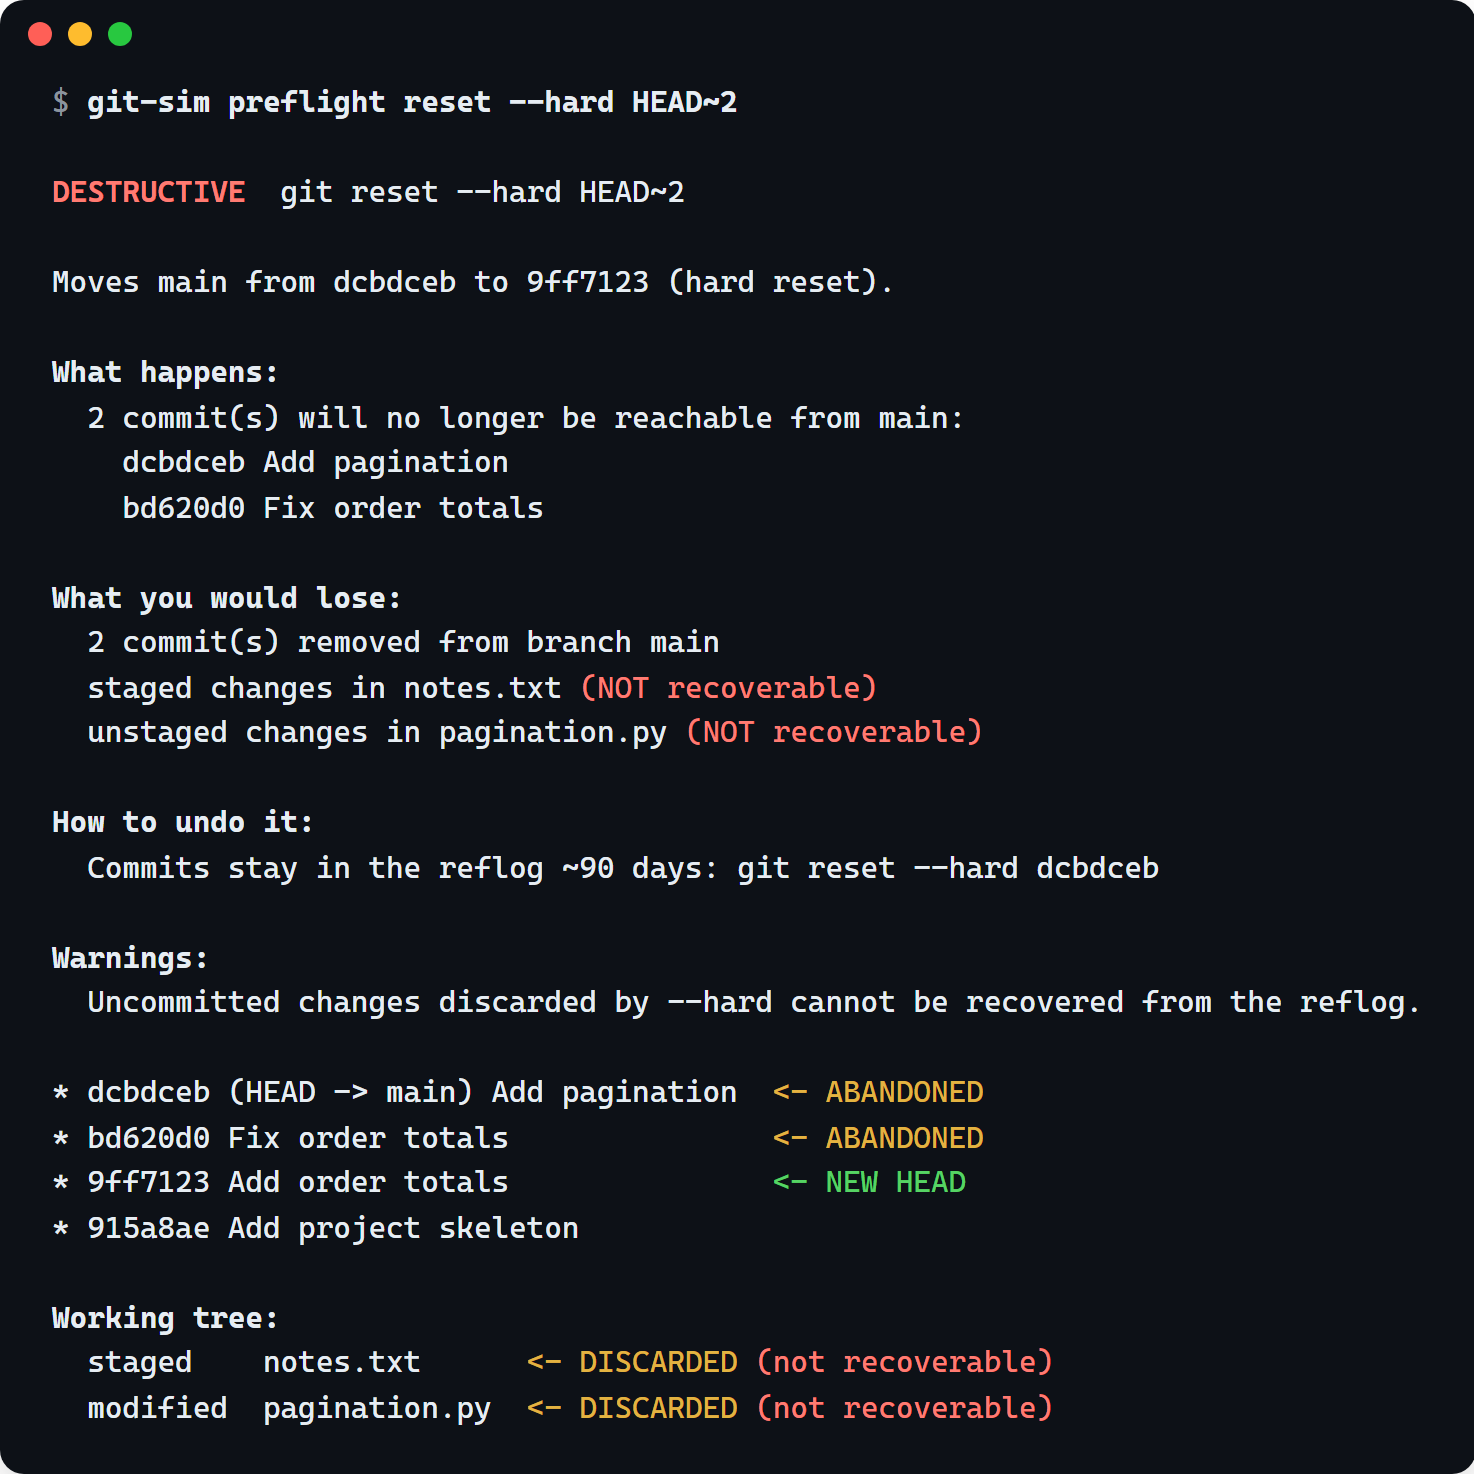
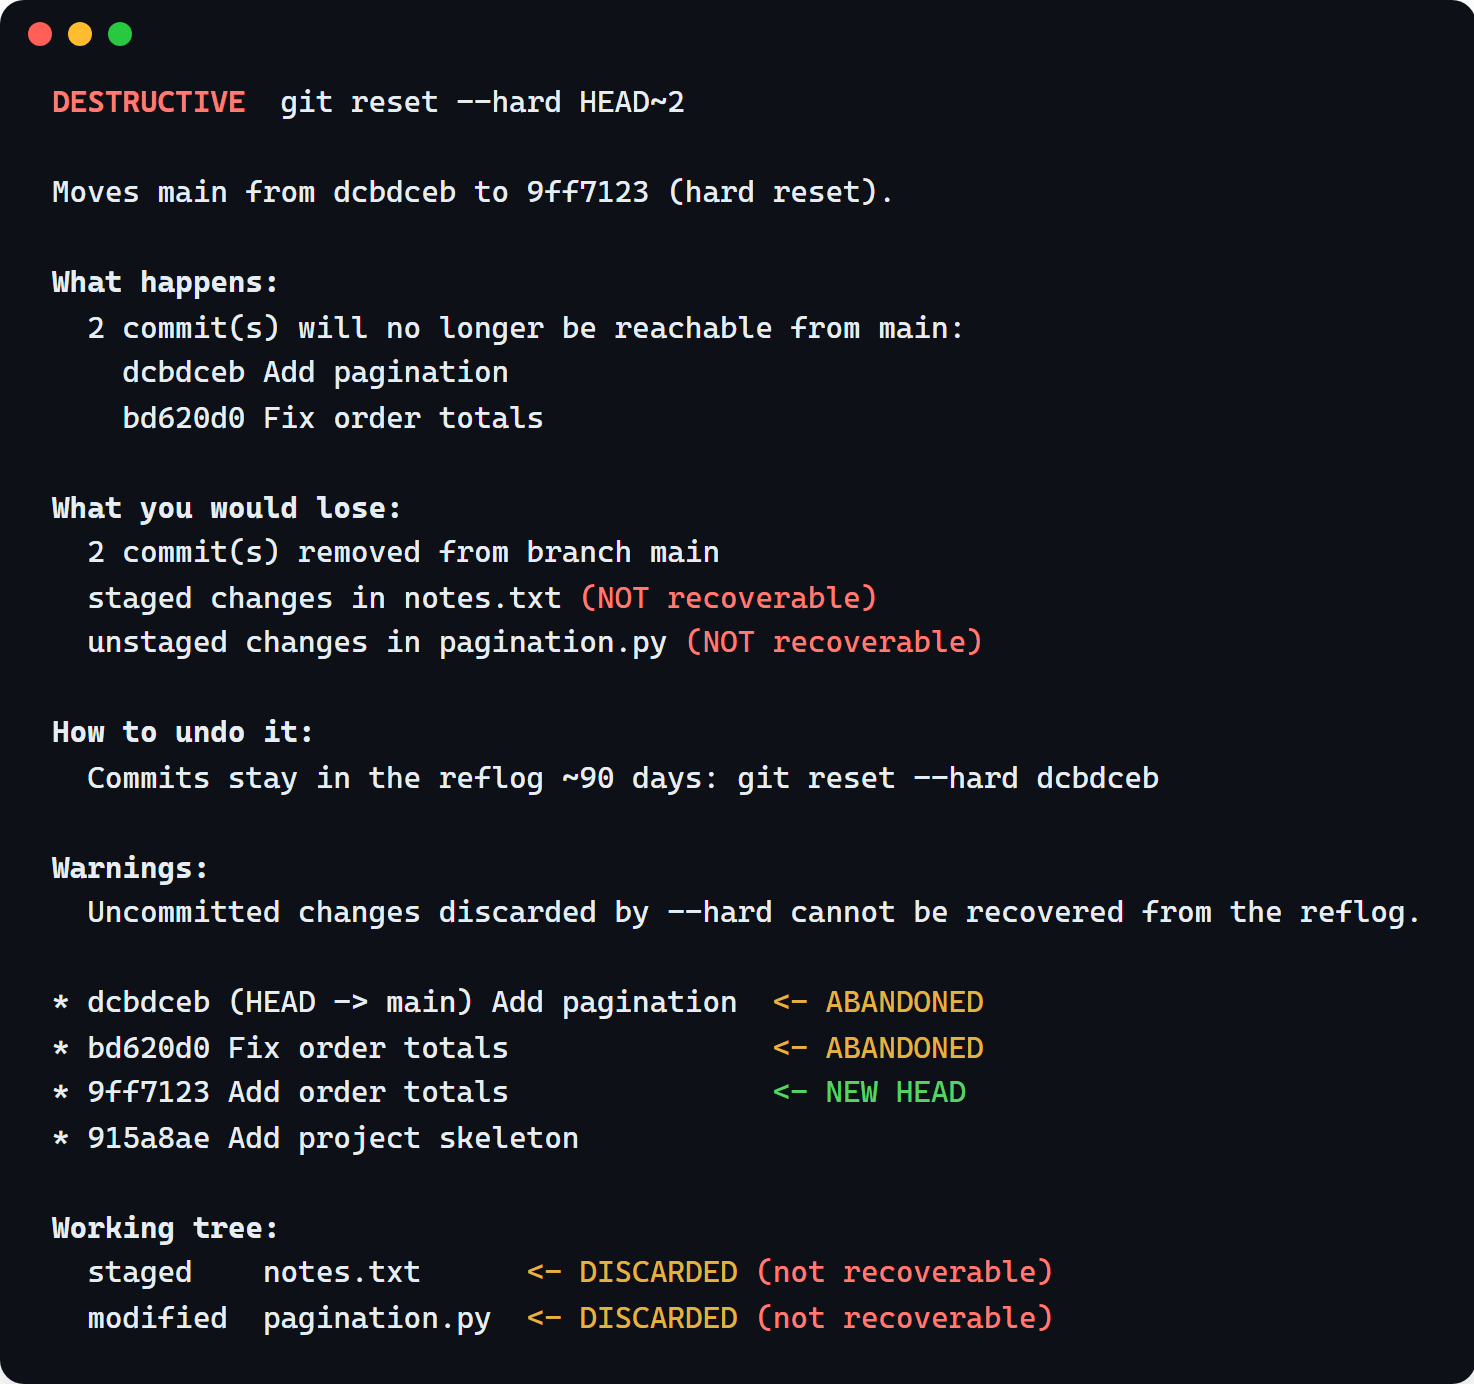
Lead the README's pre-flight section with its command
As in live mode, the command comes first, in a code block, and the
picture of the report below it no longer repeats it.

diff --git a/README.md b/README.md
@@ -104,6 +104,10 @@ Useful options: `-C <path>` for another repo, `--no-zones` for the commit graph 
 
 ## Pre-flight
 
+```console
+$ git-sim preflight reset --hard HEAD~2
+```
+
 [![git-sim preflight reporting what a hard reset would lose](docs/img/preflight.png)](docs/mcp.md)
 
 Pre-flight shows what a command that can lose work would do before you run it, worked out from your repo rather than guessed: how risky it is, which commits would become unreachable, which changes would be lost for good, and the command that undoes it, all without touching your repo.
